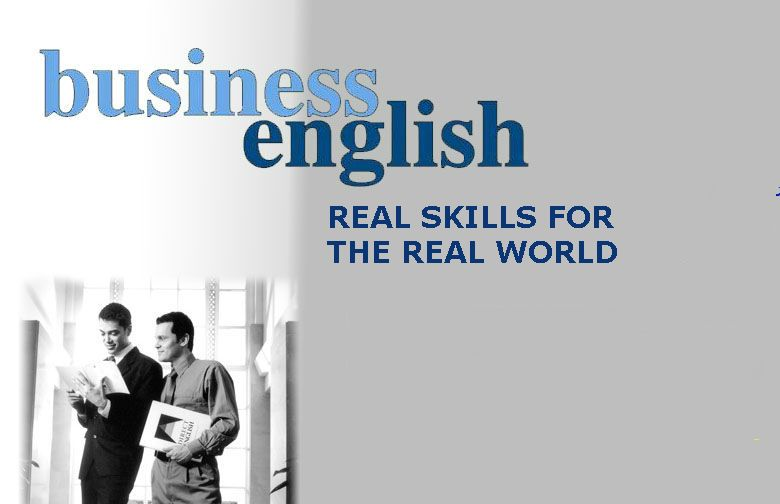
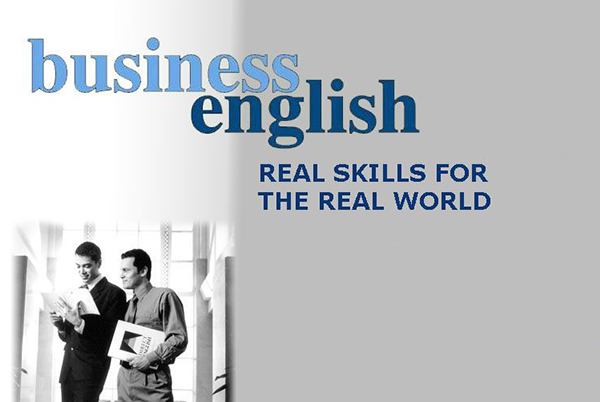
fix picture size

Changed region(s): [[0.03, 0.0896, 0.84, 0.5373], [0.0, 0.5373, 0.39, 1.0], [0.99, 0.3582, 1.0, 0.3881]]

diff --git a/src/main/webapp/service3.html b/src/main/webapp/service3.html
@@ -570,12 +570,12 @@
 							<div class="panel panel-default">
 								<div class="panel-heading" role="tab" id="trainingHeading1">
 									<h4 class="panel-title">
-										<a data-toggle="collapse" data-parent="#trainingAccordion" href="#trainingCollapse1" aria-expanded="true" aria-controls="trainingCollapse1">
+										<a data-toggle="collapse" data-parent="#trainingAccordion" href="#trainingCollapse1" aria-expanded="false" aria-controls="trainingCollapse1" class="collapsed">
 											敏捷赋能
 										</a>
 									</h4>
 								</div>
-								<div id="trainingCollapse1" class="panel-collapse collapse in" role="tabpanel" aria-labelledby="trainingHeading1">
+								<div id="trainingCollapse1" class="panel-collapse collapse" role="tabpanel" aria-labelledby="trainingHeading1">
 									<div class="panel-body">
 										<div class="table-responsive">
 											<table class="table">

diff --git a/src/main/webapp/service7.html b/src/main/webapp/service7.html
@@ -587,7 +587,7 @@
 
 	<div class="section" id="new">
 		<div class="container">
-			<h1 class="text-center title" id="portfolio">HSBC业务线解决方案服务目录</h1>
+			<h1 class="text-center title" id="portfolio">HSBC业务线解决方案</h1>
 			<div class="separator"></div>
 			<br>
 			<div class="row object-non-visible animated object-visible fadeIn"

diff --git a/src/main/webapp/css/style.css b/src/main/webapp/css/style.css
@@ -561,6 +561,7 @@ textarea {
 	-o-transition: all 0.3s ease-in-out;
 	-ms-transition: all 0.3s ease-in-out;
 	transition: all 0.3s ease-in-out;
+	margin-top: 3%;
 }
 .site-name a {
 	color: #ffffff;
